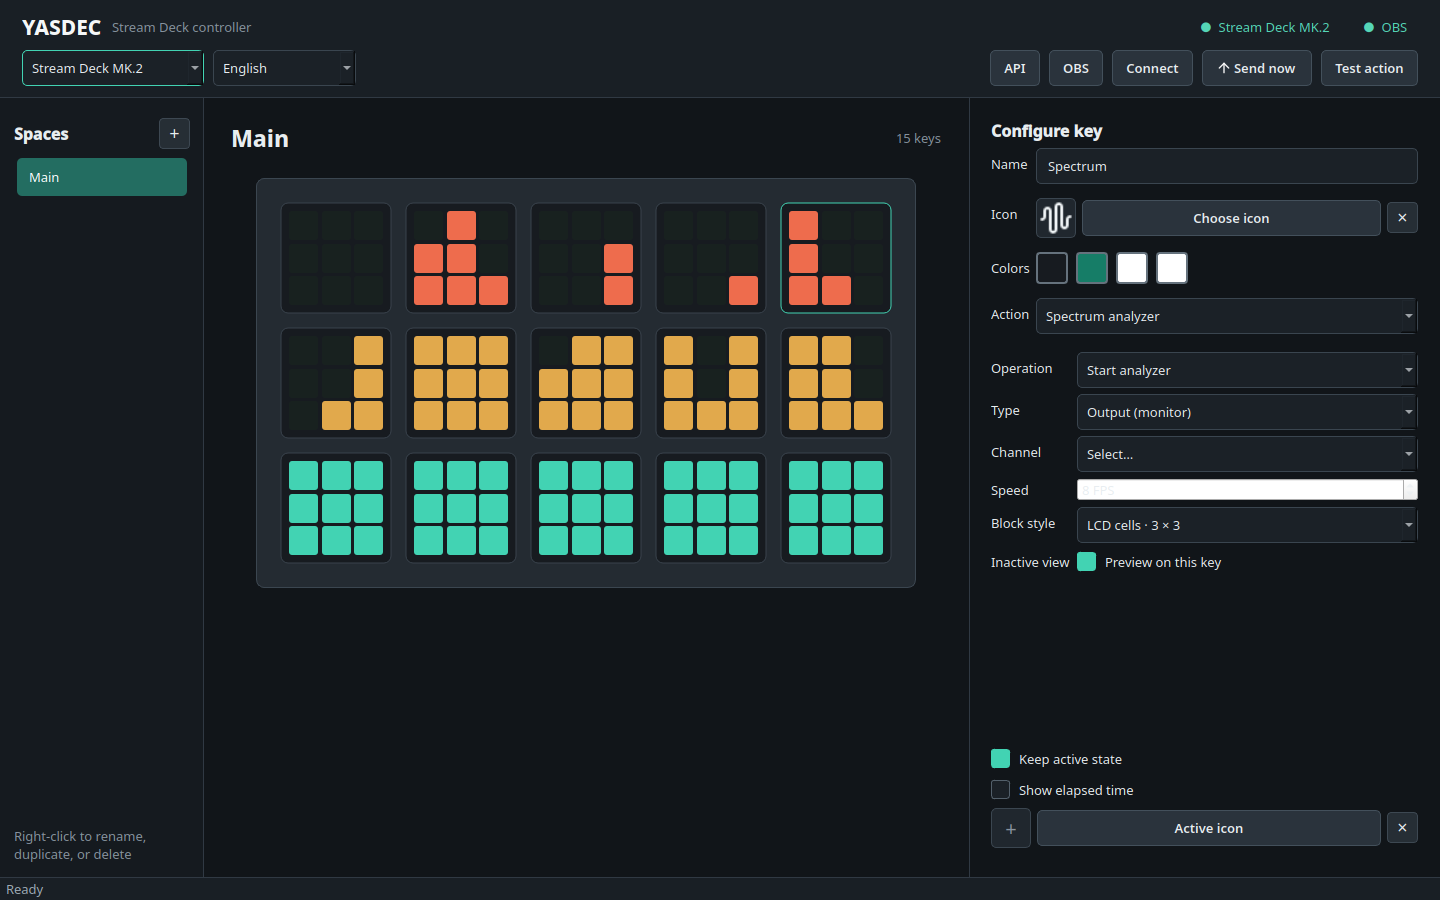
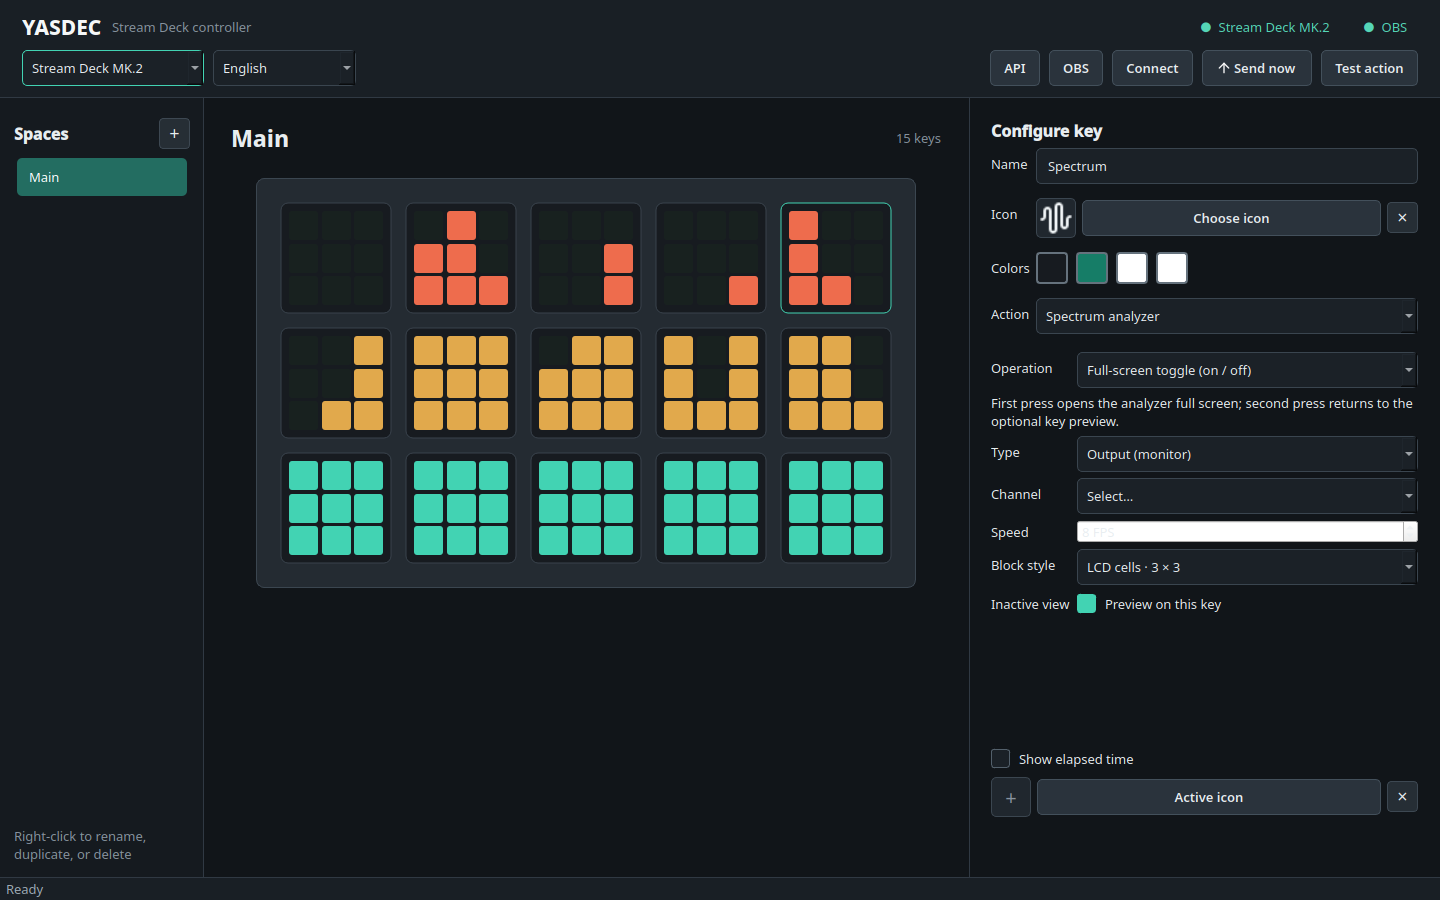
Improve visualizer previews and toggle controls

Changed region(s): [[0.6875, 0.4044, 1.0, 0.6844], [0.6875, 0.8089, 1.0, 0.9644]]

diff --git a/sdeck/widgets.py b/sdeck/widgets.py
@@ -34,7 +34,7 @@ from .applications import cache_application_icon, read_desktop_application
 from .icon_library import ApplicationChoiceDialog, IconChoiceDialog
 from .i18n import tr
 from .keyboard import MODIFIER_KEYS, shortcut_from_qt
-from .model import ACTION_APPLICATION, ACTION_AUDIO, ACTION_KEYBOARD, ACTION_MULTI, ACTION_NONE, ACTION_OBS, ACTION_SHELL, ACTION_SPACE, ACTION_SPECTRUM, ACTION_VU, ACTION_WEBSOCKET, KeyConfig, MultiActionStep, Space
+from .model import ACTION_APPLICATION, ACTION_AUDIO, ACTION_KEYBOARD, ACTION_MULTI, ACTION_NONE, ACTION_OBS, ACTION_SHELL, ACTION_SPACE, ACTION_SPECTRUM, ACTION_VU, ACTION_WEBSOCKET, KeyConfig, MultiActionStep, Space, default_visualizer_icon
 
 
 class ShortcutCaptureDialog(QDialog):
@@ -202,6 +202,8 @@ class KeyButton(QAbstractButton):
 
         icon_path = self.key.active_icon if self.key.active and self.key.active_icon else self.key.icon
         glyph = self.key.active_glyph if self.key.active and self.key.active_glyph else self.key.glyph
+        if not icon_path and not glyph:
+            icon_path = default_visualizer_icon(self.key)
         compact = self.width() < 90
         icon_side = int(min(self.width(), self.height()) * (0.48 if compact else 0.53))
         if self.mini_vu is not None:
@@ -568,8 +570,10 @@ class KeyInspector(QWidget):
         self.spectrum_form = QFormLayout(page)
         self.spectrum_form.setContentsMargins(0, 12, 0, 0)
         self.spectrum_operation = QComboBox()
-        self.spectrum_operation.addItem(tr("Start analyzer"), "start")
-        self.spectrum_operation.addItem(tr("Stop analyzer"), "stop")
+        self.spectrum_operation.addItem(tr("Full-screen toggle (on / off)"), "start")
+        self.spectrum_operation.addItem(tr("Stop only"), "stop")
+        self.spectrum_mode_hint = QLabel()
+        self.spectrum_mode_hint.setWordWrap(True)
         self.spectrum_kind = QComboBox()
         self.spectrum_kind.addItem(tr("Output (monitor)"), "sink")
         self.spectrum_kind.addItem(tr("Input"), "source")
@@ -584,6 +588,7 @@ class KeyInspector(QWidget):
         self.spectrum_preview = QCheckBox(tr("Preview on this key"))
         self.spectrum_preview.setToolTip(tr("Keeps capture active and displays a mini spectrum while full screen is off"))
         self.spectrum_form.addRow(tr("Operation"), self.spectrum_operation)
+        self.spectrum_form.addRow(self.spectrum_mode_hint)
         self.spectrum_form.addRow(tr("Type"), self.spectrum_kind)
         self.spectrum_form.addRow(tr("Channel"), self.spectrum_target)
         self.spectrum_form.addRow(tr("Speed"), self.spectrum_fps)
@@ -596,8 +601,10 @@ class KeyInspector(QWidget):
         self.vu_form = QFormLayout(page)
         self.vu_form.setContentsMargins(0, 12, 0, 0)
         self.vu_operation = QComboBox()
-        self.vu_operation.addItem(tr("Start VU meter"), "start")
-        self.vu_operation.addItem(tr("Stop VU meter"), "stop")
+        self.vu_operation.addItem(tr("Full-screen toggle (on / off)"), "start")
+        self.vu_operation.addItem(tr("Stop only"), "stop")
+        self.vu_mode_hint = QLabel()
+        self.vu_mode_hint.setWordWrap(True)
         self.vu_kind = QComboBox()
         self.vu_kind.addItem(tr("Output (monitor)"), "sink")
         self.vu_kind.addItem(tr("Input"), "source")
@@ -618,6 +625,7 @@ class KeyInspector(QWidget):
         color_layout.addWidget(self.vu_color_end)
         color_layout.addStretch()
         self.vu_form.addRow(tr("Operation"), self.vu_operation)
+        self.vu_form.addRow(self.vu_mode_hint)
         self.vu_form.addRow(tr("Type"), self.vu_kind)
         self.vu_form.addRow(tr("Channel"), self.vu_target)
         self.vu_form.addRow(tr("Speed"), self.vu_fps)
@@ -1000,6 +1008,14 @@ class KeyInspector(QWidget):
         obs_toggle = action == ACTION_OBS and obs_operation in ("source", "input_mute")
         spectrum_start = action == ACTION_SPECTRUM and self.spectrum_operation.currentData() == "start"
         vu_start = action == ACTION_VU and self.vu_operation.currentData() == "start"
+        self.spectrum_mode_hint.setText(
+            tr("First press opens the analyzer full screen; second press returns to the optional key preview.")
+            if spectrum_start else tr("This key only stops the analyzer; it never starts it.")
+        )
+        self.vu_mode_hint.setText(
+            tr("First press opens the VU meter full screen; second press returns to the optional key preview.")
+            if vu_start else tr("This key only stops the VU meter; it never starts it.")
+        )
         supports_toggle = action in (ACTION_SHELL, ACTION_WEBSOCKET, ACTION_AUDIO, ACTION_MULTI) or obs_toggle or spectrum_start or vu_start
         forced_toggle = action in (ACTION_AUDIO, ACTION_MULTI) or obs_toggle or spectrum_start or vu_start
         if forced_toggle and not self.toggle.isChecked():
@@ -1015,7 +1031,7 @@ class KeyInspector(QWidget):
             if self.key:
                 self.key.toggle = False
         self.toggle.setEnabled(not forced_toggle)
-        self.toggle.setVisible(supports_toggle)
+        self.toggle.setVisible(supports_toggle and not spectrum_start and not vu_start)
         self.toggle_box.setVisible(supports_toggle or spectrum_start or vu_start)
         self.timer.setVisible(not self.action_only and supports_toggle and self.toggle.isChecked())
         self.active_icon.setVisible(not self.action_only and ((supports_toggle and self.toggle.isChecked()) or spectrum_start or vu_start))

diff --git a/sdeck/window.py b/sdeck/window.py
@@ -382,10 +382,12 @@ class MainWindow(QMainWindow):
         self.save_timer.stop()
         self.save()
         self.deck.render_space(self.config.current().keys[: self.config.key_count])
-        if self.runner.spectrum_active:
+        if self.runner.spectrum_fullscreen:
             self._draw_spectrum()
-        elif self.runner.vu_active:
+        elif self.runner.vu_fullscreen:
             self._draw_vu()
+        elif self.runner.spectrum_active or self.runner.vu_active:
+            self._draw_audio_previews()
         self.statusBar().showMessage(tr("Space sent to device"), 2500)
 
     def trigger_key(self, index: int) -> None:
@@ -520,12 +522,15 @@ class MainWindow(QMainWindow):
         for button in self.key_buttons:
             button.set_spectrum_level(None)
             button.set_mini_spectrum(None)
-            button.set_vu_cells(None)
-            button.set_mini_vu(None)
         self.deck.render_space(self.config.current().keys[: self.config.key_count])
+        if self.runner.vu_active:
+            self._draw_audio_previews()
 
     def _draw_spectrum(self) -> None:
         if not self.spectrum_levels:
+            return
+        if not self.runner.spectrum_fullscreen:
+            self._draw_audio_previews()
             return
         keys = self.config.current().keys[: self.config.key_count]
         for button in self.key_buttons:
@@ -533,15 +538,6 @@ class MainWindow(QMainWindow):
             button.set_mini_spectrum(None)
             button.set_vu_cells(None)
             button.set_mini_vu(None)
-        if not self.runner.spectrum_fullscreen:
-            preview_index = next((
-                index for index, key in enumerate(keys)
-                if key is self.runner.spectrum_key and key.spectrum_preview
-            ), -1)
-            if preview_index >= 0:
-                self.key_buttons[preview_index].set_mini_spectrum(self.spectrum_levels)
-                self.deck.render_mini_spectrum(preview_index, keys[preview_index], self.spectrum_levels)
-            return
         stop_indices = {index for index, key in enumerate(keys) if key.action == ACTION_SPECTRUM and key.spectrum_operation == "stop"}
         rows = (self.config.key_count + self.config.columns - 1) // self.config.columns
         spectrum_key = self.runner.spectrum_key
@@ -594,23 +590,19 @@ class MainWindow(QMainWindow):
             button.set_vu_cells(None)
             button.set_mini_vu(None)
         self.deck.render_space(self.config.current().keys[: self.config.key_count])
+        if self.runner.spectrum_active:
+            self._draw_audio_previews()
 
     def _draw_vu(self) -> None:
+        if not self.runner.vu_fullscreen:
+            self._draw_audio_previews()
+            return
         keys = self.config.current().keys[: self.config.key_count]
         for button in self.key_buttons:
             button.set_spectrum_level(None)
             button.set_mini_spectrum(None)
             button.set_vu_cells(None)
             button.set_mini_vu(None)
-        if not self.runner.vu_fullscreen:
-            preview_index = next((
-                index for index, key in enumerate(keys)
-                if key is self.runner.vu_key and key.vu_preview
-            ), -1)
-            if preview_index >= 0:
-                self.key_buttons[preview_index].set_mini_vu(self.vu_levels)
-                self.deck.render_mini_vu(preview_index, keys[preview_index], self.vu_levels)
-            return
         meter_key = self.runner.vu_key
         if meter_key is None:
             return
@@ -629,6 +621,39 @@ class MainWindow(QMainWindow):
             key_colors.append(cell_colors)
             button.set_vu_cells(levels, cell_colors)
         self.deck.render_vu(key_levels, key_colors)
+
+    def _draw_audio_previews(self) -> None:
+        """Draw both inactive audio previews without either timer erasing the other."""
+        if self.runner.spectrum_fullscreen or self.runner.vu_fullscreen:
+            return
+        keys = self.config.current().keys[: self.config.key_count]
+        for button in self.key_buttons:
+            button.set_spectrum_level(None)
+            button.set_mini_spectrum(None)
+            button.set_vu_cells(None)
+            button.set_mini_vu(None)
+
+        spectrum_preview = None
+        if self.runner.spectrum_active and self.spectrum_levels:
+            spectrum_index = next((
+                index for index, key in enumerate(keys)
+                if key is self.runner.spectrum_key and key.spectrum_preview
+            ), -1)
+            if spectrum_index >= 0:
+                self.key_buttons[spectrum_index].set_mini_spectrum(self.spectrum_levels)
+                spectrum_preview = (spectrum_index, keys[spectrum_index], self.spectrum_levels)
+
+        vu_preview = None
+        if self.runner.vu_active:
+            vu_index = next((
+                index for index, key in enumerate(keys)
+                if key is self.runner.vu_key and key.vu_preview
+            ), -1)
+            if vu_index >= 0:
+                self.key_buttons[vu_index].set_mini_vu(self.vu_levels)
+                vu_preview = (vu_index, keys[vu_index], self.vu_levels)
+
+        self.deck.render_audio_previews(spectrum_preview, vu_preview)
 
     def configure_api(self) -> None:
         dialog = ApiSettingsDialog(self.config, self)

diff --git a/sdeck/hardware.py b/sdeck/hardware.py
@@ -13,7 +13,7 @@ from PySide6.QtSvg import QSvgRenderer
 
 from .actions import elapsed_text
 from .i18n import tr
-from .model import KeyConfig
+from .model import KeyConfig, default_visualizer_icon
 from .models import match_deck_model
 
 
@@ -115,6 +115,20 @@ class DeckBackend(QObject):
             self._pending_spectrum = ("mini-vu", index, deepcopy(key), tuple(levels))
             self._condition.notify()
 
+    def render_audio_previews(
+        self,
+        spectrum: tuple[int, KeyConfig, list[float]] | None,
+        vu: tuple[int, KeyConfig, tuple[float, float]] | None,
+    ) -> None:
+        """Replace the pending hardware update with one atomic preview batch."""
+        if not self.deck:
+            return
+        spectrum_copy = None if spectrum is None else (spectrum[0], deepcopy(spectrum[1]), list(spectrum[2]))
+        vu_copy = None if vu is None else (vu[0], deepcopy(vu[1]), tuple(vu[2]))
+        with self._condition:
+            self._pending_spectrum = ("audio-previews", spectrum_copy, vu_copy)
+            self._condition.notify()
+
     def _start_worker(self) -> None:
         self._worker_stop = False
         self._worker = threading.Thread(target=self._worker_loop, name="sdeck-hardware", daemon=True)
@@ -149,6 +163,8 @@ class DeckBackend(QObject):
                     self._write_mini_spectrum(command[2], command[3], command[4])
                 elif command[0] == "visual" and command[1] == "mini-vu":
                     self._write_mini_vu(command[2], command[3], command[4])
+                elif command[0] == "visual" and command[1] == "audio-previews":
+                    self._write_audio_previews(command[2], command[3])
                 elif command[0] == "visual" and command[1] == "vu":
                     self._write_vu(command[2], command[3])
                 elif command[0] == "visual":
@@ -200,6 +216,16 @@ class DeckBackend(QObject):
             self.deck.set_key_image(index, native)
         self._spectrum_state.pop(index, None)
         self._screen_spectrum_signature = None
+
+    def _write_audio_previews(
+        self,
+        spectrum: tuple[int, KeyConfig, list[float]] | None,
+        vu: tuple[int, KeyConfig, tuple[float, float]] | None,
+    ) -> None:
+        if spectrum is not None:
+            self._write_mini_spectrum(*spectrum)
+        if vu is not None:
+            self._write_mini_vu(*vu)
 
     def _write_vu(self, levels: list, colors: list) -> None:
         if not self.deck:
@@ -315,6 +341,8 @@ def render_key_image(key: KeyConfig, size: tuple[int, int] = (96, 96)) -> Image.
     draw = ImageDraw.Draw(image)
     icon_path = key.active_icon if key.active and key.active_icon else key.icon
     glyph = key.active_glyph if key.active and key.active_glyph else key.glyph
+    if not icon_path and not glyph:
+        icon_path = default_visualizer_icon(key)
     icon_rendered = False
     if icon_path and Path(icon_path).is_file():
         try:

diff --git a/tests/test_actions.py b/tests/test_actions.py
@@ -102,6 +102,35 @@ class StereoVuToggleTests(unittest.TestCase):
         self.assertFalse(key.active)
         runner.close()
 
+    def test_spectrum_and_vu_previews_run_together_but_fullscreen_is_exclusive(self) -> None:
+        runner = ActionRunner()
+        runner.audio.timer.stop()
+        runner._timer.stop()
+        runner.audio.capture_device = lambda *_args: "monitor.test"
+        runner.spectrum.start = lambda *_args: True
+        runner.spectrum.stop = lambda: None
+        runner.vu.start = lambda *_args: True
+        runner.vu.stop = lambda: None
+        spectrum = KeyConfig(action=ACTION_SPECTRUM, spectrum_preview=True, toggle=True)
+        vu = KeyConfig(action=ACTION_VU, vu_preview=True, toggle=True)
+        runner._visible_keys = [spectrum, vu]
+
+        runner._sync_visual_previews()
+        self.assertTrue(runner.spectrum_active)
+        self.assertTrue(runner.vu_active)
+        self.assertFalse(runner.spectrum_fullscreen)
+        self.assertFalse(runner.vu_fullscreen)
+
+        runner.trigger(0, spectrum)
+        self.assertTrue(runner.spectrum_fullscreen)
+        self.assertFalse(runner.vu_active)
+
+        runner.trigger(0, spectrum)
+        self.assertFalse(runner.spectrum_fullscreen)
+        self.assertTrue(runner.spectrum_active)
+        self.assertTrue(runner.vu_active)
+        runner.close()
+
 class KeyboardShortcutTests(unittest.TestCase):
     def test_qt_recorder_formats_modifiers_and_extended_function_keys(self) -> None:
         modifiers = Qt.KeyboardModifier.ControlModifier | Qt.KeyboardModifier.AltModifier

diff --git a/sdeck/actions.py b/sdeck/actions.py
@@ -123,6 +123,7 @@ class ActionRunner(QObject):
                         self.status.emit(tr("Analyzer preview active"), True)
                     else:
                         self._stop_spectrum()
+                    self._sync_visual_previews()
                     return
                 if self.vu_active:
                     self._stop_vu()
@@ -156,6 +157,7 @@ class ActionRunner(QObject):
                         self.status.emit(tr("VU meter preview active"), True)
                     else:
                         self._stop_vu()
+                    self._sync_visual_previews()
                     return
                 if self.spectrum_active:
                     self._stop_spectrum()
@@ -382,7 +384,9 @@ class ActionRunner(QObject):
 
     def sync_spectrum_preview(self) -> None:
         """Keep capture resolution and inactive preview in sync with the editor."""
-        if self.vu_active and not self.spectrum_active:
+        if self.vu_fullscreen:
+            if self.spectrum_active:
+                self._stop_spectrum()
             return
         if self.spectrum_fullscreen:
             candidate = self.spectrum_key
@@ -426,7 +430,9 @@ class ActionRunner(QObject):
 
     def sync_vu_preview(self) -> None:
         """Keep stereo capture and its inactive per-key preview synchronized."""
-        if self.spectrum_active and not self.vu_active:
+        if self.spectrum_fullscreen:
+            if self.vu_active:
+                self._stop_vu()
             return
         if self.vu_fullscreen:
             candidate = self.vu_key

diff --git a/tests/test_model.py b/tests/test_model.py
@@ -3,10 +3,20 @@ import tempfile
 import unittest
 from pathlib import Path
 
-from sdeck.model import ACTION_KEYBOARD, ACTION_MULTI, ACTION_SHELL, AppConfig, KeyConfig, MultiActionStep, replicate_key_config
+from sdeck.model import ACTION_KEYBOARD, ACTION_MULTI, ACTION_SHELL, ACTION_SPECTRUM, ACTION_VU, AppConfig, KeyConfig, MultiActionStep, default_visualizer_icon, replicate_key_config
 
 
 class ConfigTests(unittest.TestCase):
+    def test_visualizer_fallback_icons_only_apply_without_preview(self) -> None:
+        spectrum = KeyConfig(action=ACTION_SPECTRUM, spectrum_preview=False)
+        vu = KeyConfig(action=ACTION_VU, vu_preview=False)
+        self.assertTrue(default_visualizer_icon(spectrum).endswith("audio-waveform.svg"))
+        self.assertTrue(default_visualizer_icon(vu).endswith("sliders-horizontal.svg"))
+        spectrum.spectrum_preview = True
+        vu.vu_preview = True
+        self.assertEqual(default_visualizer_icon(spectrum), "")
+        self.assertEqual(default_visualizer_icon(vu), "")
+
     def test_key_configuration_replication_is_deep_and_resets_runtime_state(self) -> None:
         nested = KeyConfig(label="Nested", action=ACTION_KEYBOARD, keyboard_shortcut="F22")
         source = KeyConfig(label="Source", action=ACTION_MULTI, active=True, started_at="2026-01-01T00:00:00+00:00")

diff --git a/sdeck/model.py b/sdeck/model.py
@@ -24,6 +24,18 @@ ACTION_KEYBOARD = "keyboard"
 ACTION_MULTI = "multi"
 
 
+def default_visualizer_icon(key: "KeyConfig") -> str:
+    """Return the bundled fallback icon used when a visual preview is disabled."""
+    icon_name = ""
+    if key.action == ACTION_SPECTRUM and not key.spectrum_preview:
+        icon_name = "audio-waveform.svg"
+    elif key.action == ACTION_VU and not key.vu_preview:
+        icon_name = "sliders-horizontal.svg"
+    if not icon_name:
+        return ""
+    return str(Path(__file__).resolve().parent.parent / "assets" / "icons" / "lucide" / icon_name)
+
+
 @dataclass
 class MultiActionStep:
     kind: str = "action"

diff --git a/README.md b/README.md
@@ -215,6 +215,14 @@ A spectrum start key behaves as a toggle:
   spectrum replaces that key's normal icon.
 - Disabled without preview: spectrum capture stops completely.
 
+The Spectrum and Stereo VU start keys are full-screen toggles: the first press
+opens the visualization and the second returns to its optional key preview.
+Separate stop-only keys are available for layouts that need a dedicated stop
+control. Mini Spectrum and mini VU previews can run simultaneously on different
+keys; only the full-screen modes are mutually exclusive.
+When preview is disabled and no custom icon or symbol is configured, YASDEC
+uses a bundled waveform icon for Spectrum or a controls icon for Stereo VU.
+
 Columns represent logarithmic frequency bands and rows represent intensity.
 The block style can be solid, a 2 × 2 LCD grid, or a 3 × 3 LCD grid. The 3 × 3
 style turns every key into nine small retro colored cells and samples three
